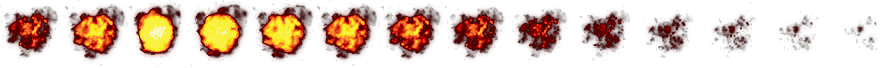
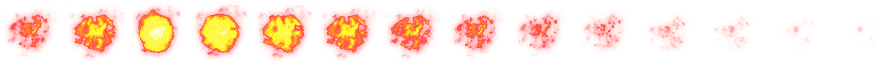
Energy Dash effect

diff --git a/Player.cpp b/Player.cpp
@@ -5,6 +5,7 @@
 // --------------------------------------------------------------- */
 
 #include "Player.h"
+#include "FXSprite.h"
 #include <cmath>
 #include "main.h"
 
@@ -24,7 +25,7 @@ Player::Player(sf::Image& image, sf::Image& impulse)
 void Player::update(float delta)
 { 
   float xAdvancement=mSprite.GetPosition().x-350;
-  mSprite.Move(-xAdvancement*delta*4+mXDir*delta, mYDir*delta);
+  mSprite.Move(-xAdvancement*delta+mXDir*delta, mYDir*delta);
   
   mYDir = mYDir-mYDir*std::min(delta*3, 1.0f);
   mXDir = mXDir-mXDir*std::min(delta*3, 1.0f);
@@ -36,7 +37,7 @@ void Player::update(float delta)
   
   if(mEnergyBar < 1.0f)
   {
-    mEnergyBar+=0.1f*delta;
+    mEnergyBar+=0.4f*delta;
     if(mEnergyBar>1.0f)
       mEnergyBar=1.0f;
   }
@@ -62,12 +63,13 @@ void Player::moveRight(float delta)
   mXDir += 2000.f*delta;
 }
 
-void Player::energyBash()
+void Player::energyDash()
 {
-  if(mEnergyBar > 0.5f)
+  if(mEnergyBar > 0.9f)
   {
+    RegisterFx(new FXSprite("EnergyDash", mSprite.GetPosition().x+150, mSprite.GetPosition().y, 3));
     mSprite.SetX(mSprite.GetPosition().x+300);
-    mEnergyBar-=0.4f;
+    mEnergyBar-=0.9f;
   }
 }
 

diff --git a/main.cpp b/main.cpp
@@ -129,10 +129,17 @@ int main(int argc, char **argv)
   LoadSound("Sound/Shoot.wav");
   
   // Special effects
-  
   sf::Image exploImg;
   exploImg.LoadFromFile("Image/Explosion.png");
   FXSprite::RegisterFxType("Explosion", exploImg, 0.05f, 64);
+  
+  sf::Image playerExploImg;
+  playerExploImg.LoadFromFile("Image/ExplosionPlayer.png");
+  FXSprite::RegisterFxType("PlrExplosion", playerExploImg, 0.05, 64);
+  
+  sf::Image playerEnergyDash;
+  playerEnergyDash.LoadFromFile("Image/EnergyDash.png");
+  FXSprite::RegisterFxType("EnergyDash", playerEnergyDash, 0.05, 100);
   
   while(app.IsOpened())
   {
@@ -160,7 +167,7 @@ int main(int argc, char **argv)
         switch(Event.Key.Code)
         {
           case sf::Key::Space:
-            player.energyBash();
+            player.energyDash();
             break;
           default:
             break;

diff --git a/Player.h b/Player.h
@@ -18,7 +18,7 @@ public:
   void moveDown(float delta);
   void moveLeft(float delta);
   void moveRight(float delta);
-  void energyBash();
+  void energyDash();
   float getY(){ return mSprite.GetPosition().y; };
   const sf::Sprite& getSprite(){ return mSprite; };
   const sf::Sprite& getImpulseSprite(){ return mImpulse; };
